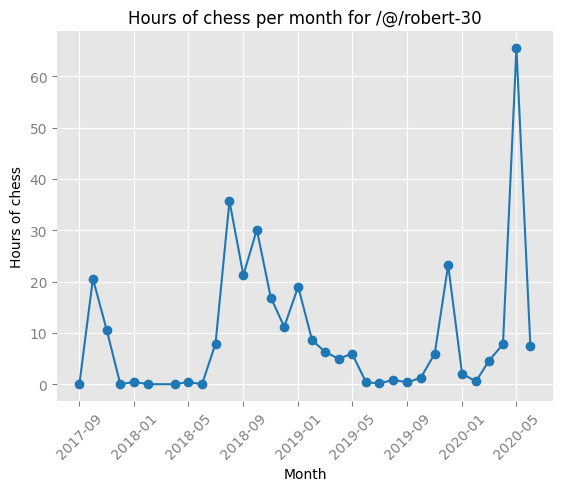
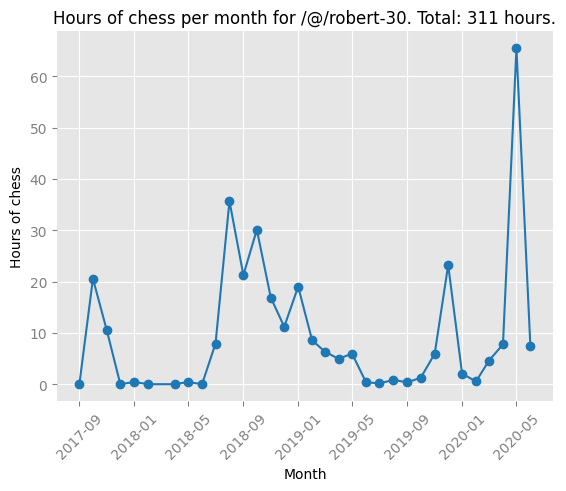
added total

diff --git a/chess_per_month.py b/chess_per_month.py
@@ -151,7 +151,7 @@ for spine in ax.spines.values():
                     
 
 # plot data
-plt.title('Hours of chess per month for /@/%s' % handle )
+plt.title('Hours of chess per month for /@/%s. Total: %d hours.' % (handle, int(tot_time)) )
 plt.plot_date(x, y, linestyle='solid')
 plt.xlabel('Month')
 plt.xticks(rotation=45)
